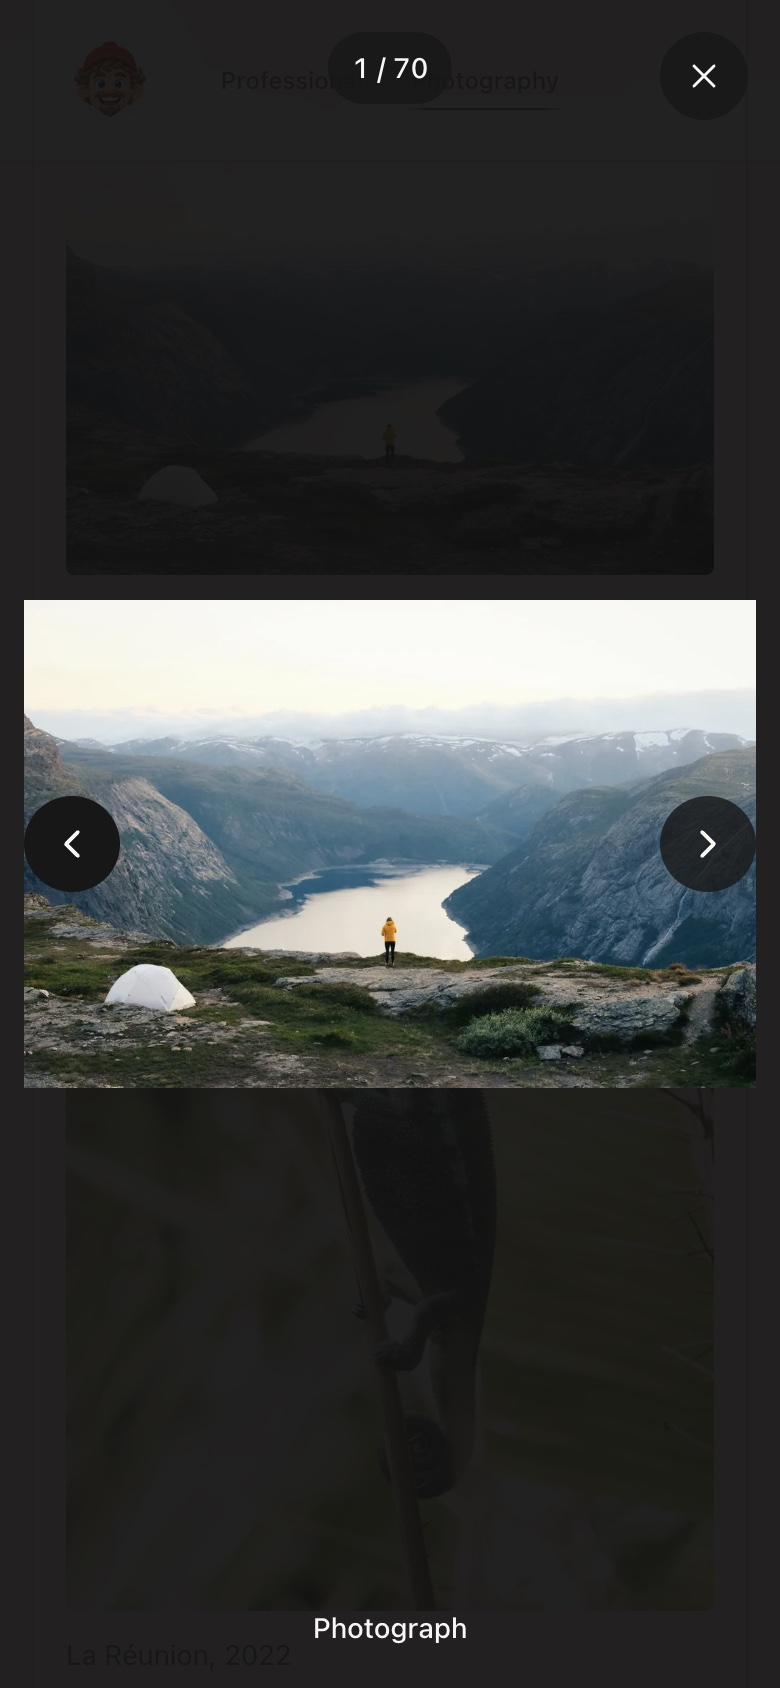
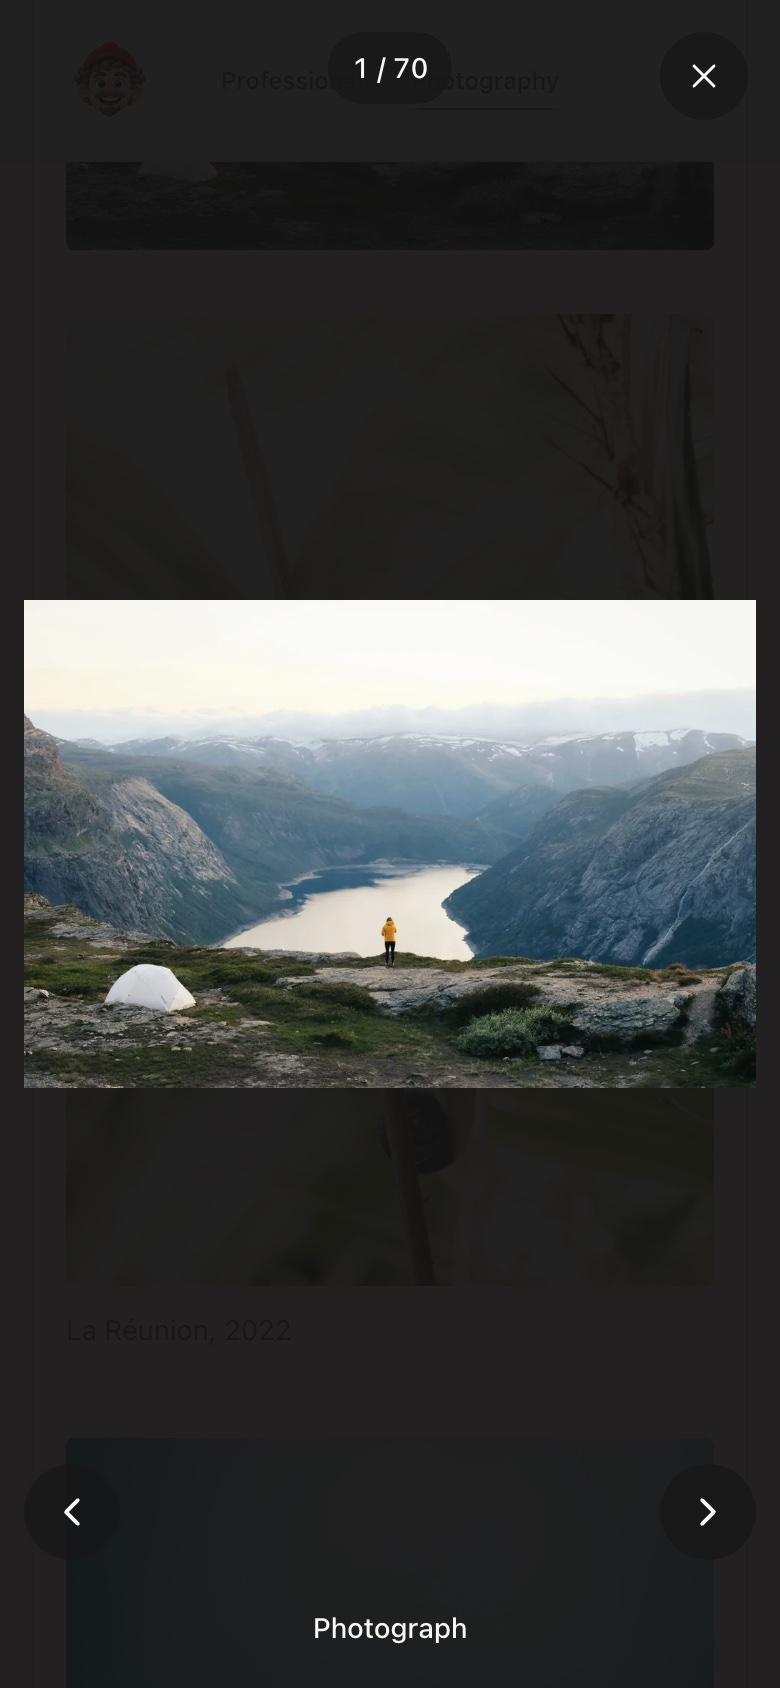
fix: move mobile lightbox arrows below image

Changed region(s): [[0.8308, 0.4621, 0.9846, 0.5545], [0.0308, 0.4621, 0.1538, 0.5545]]

diff --git a/apps/web/src/routes/photography.tsx b/apps/web/src/routes/photography.tsx
@@ -174,7 +174,7 @@ function PhotographDialog({
         {index + 1} / {photographs.length}
       </output>
       <button
-        className="absolute top-1/2 left-3 z-10 grid size-12 -translate-y-1/2 place-items-center rounded-full bg-charcoal/80 text-paper transition-colors hover:bg-charcoal focus-visible:outline-2 focus-visible:outline-offset-2 focus-visible:outline-paper sm:left-6"
+        className="absolute bottom-16 left-3 top-auto z-10 grid size-12 translate-y-0 place-items-center rounded-full bg-charcoal/80 text-paper transition-colors hover:bg-charcoal focus-visible:outline-2 focus-visible:outline-offset-2 focus-visible:outline-paper sm:top-1/2 sm:bottom-auto sm:-translate-y-1/2 sm:left-6"
         type="button"
         onClick={() => onNavigate(-1)}
         aria-label="Previous photograph"
@@ -197,7 +197,7 @@ function PhotographDialog({
         {photographCaption(photo) || "Photograph"}
       </Dialog.Title>
       <button
-        className="absolute top-1/2 right-3 z-10 grid size-12 -translate-y-1/2 place-items-center rounded-full bg-charcoal/80 text-paper transition-colors hover:bg-charcoal focus-visible:outline-2 focus-visible:outline-offset-2 focus-visible:outline-paper sm:right-6"
+        className="absolute bottom-16 right-3 top-auto z-10 grid size-12 translate-y-0 place-items-center rounded-full bg-charcoal/80 text-paper transition-colors hover:bg-charcoal focus-visible:outline-2 focus-visible:outline-offset-2 focus-visible:outline-paper sm:top-1/2 sm:bottom-auto sm:-translate-y-1/2 sm:right-6"
         type="button"
         onClick={() => onNavigate(1)}
         aria-label="Next photograph"
